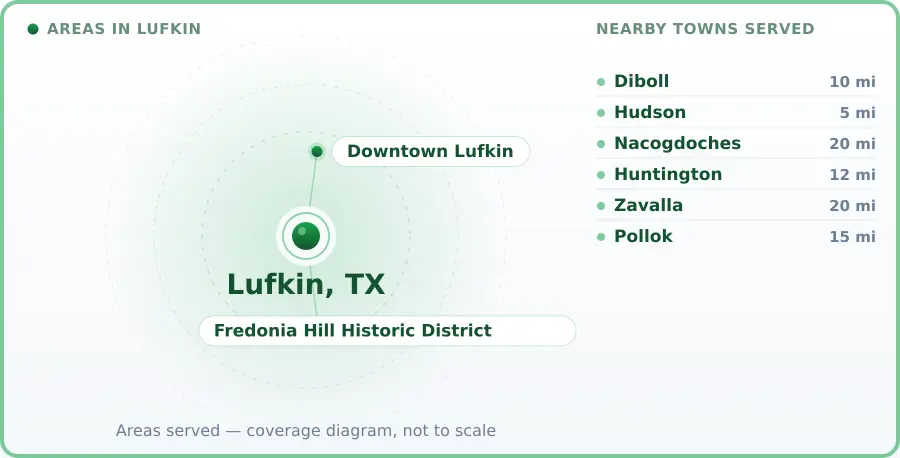
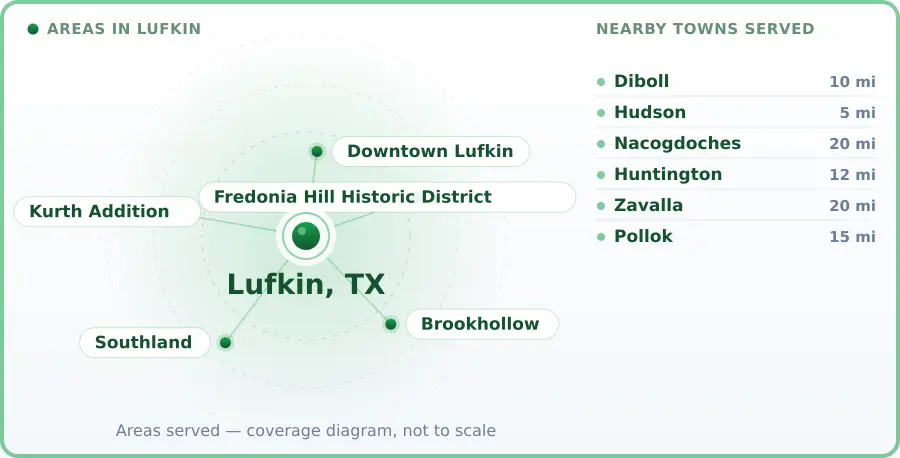
Fix thin neighbourhood lists at the source, so it holds for every city
The diagram kept showing two or three areas. Mold-site had 2 for Lufkin while water-site had 6
for the SAME city. The cause was not the drawing — it was that a short list was never re-asked:
the top-up looks for fields that are MISSING, and two names is not missing.

The user-facing fix is one number in one file:

    { "data_key": "neighborhoods", "min_items": 5 }

Behind it, four things that each stop a real failure:

- A field present but shorter than min_items now counts as missing, so a thin list gets re-asked.
- A declaration may have NO ask of its own. The base prompt already asks for neighbourhoods;
  this entry exists only to set the minimum, and asking twice in one call would be daft.
- A re-ask asks a DIFFERENT question. The base prompt says "better to return none than a fake
  one" — correct for accuracy, and it biases hard toward short lists, so re-sending it got the
  same two names back. The top-up now names what is already held and asks for more, keeping
  those. That is what actually moved Lufkin from 2 to 5.
- A re-ask that comes back shorter is discarded, and one that stays short counts as declined, so
  a city with genuinely few named areas is asked twice and then left alone.

Also fixed a bug of mine in the same edit: I widened the field tuples from 4 to 5 and missed one
unpack site, so every top-up crashed after the API call — money spent, nothing saved, and the
run looked like it had simply decided not to change anything.
[…]

Changed region(s): [[0.0933, 0.6725, 0.6222, 0.7642], [0.0311, 0.3974, 0.56, 0.4891], [0.28, 0.4891, 0.3111, 0.5197]]

diff --git a/generate.py b/generate.py
@@ -1086,7 +1086,7 @@ def chart_research_fields(brief):
         seen.add(key)
         skey = (cfg.get('source_key') or '').strip()
         sask = (r.get('source_ask') or '').strip()
-        out.append((key, skey, ask, sask))
+        out.append((key, skey, ask, sask, int(cfg.get('min_items') or 0)))
 
         # A `compare` chart needs its BENCHMARK as well as its own figure, and the benchmark
         # lives in a different field. Tracking only data_key meant a chart could have its own
@@ -1101,7 +1101,7 @@ def chart_research_fields(brief):
             vk = (b.get('value_key') or '').strip() if isinstance(b, dict) else ''
             if vk and vk not in seen:
                 seen.add(vk)
-                out.append((vk, skey, ask, sask))
+                out.append((vk, skey, ask, sask, 0))
     return out
 
 
@@ -1132,12 +1132,16 @@ def plugin_research_fields():
             if not isinstance(fld, dict):
                 continue
             key = (fld.get('data_key') or '').strip()
-            ask = (fld.get('ask') or '').strip()
-            if not key or not ask or key in seen:
+            if not key or key in seen:
                 continue
+            # An ask-less declaration is TRACKED but adds no prompt line. That is how a plugin
+            # can say "this field must have at least N entries" about something the base prompt
+            # already asks for, without asking for it twice in the same call.
+            ask = (fld.get('ask') or '').strip()
             seen.add(key)
             out.append((key, (fld.get('source_key') or '').strip(),
-                        ask, (fld.get('source_ask') or '').strip()))
+                        ask, (fld.get('source_ask') or '').strip(),
+                        int(fld.get('min_items') or 0)))
     return out
 
 
@@ -1162,7 +1166,10 @@ def _chart_research_asks(brief):
     lines = []
     sourced = False
     seen_asks = set()
-    for _key, _skey, ask, source_ask in fields:
+    for _key, _skey, ask, source_ask, _min in fields:
+        # An ask-less declaration is tracked only — it contributes no line to the prompt.
+        if not ask:
+            continue
         # Two tracked fields can share one ask (a compare chart and its benchmark), so the
         # prompt must not print it twice.
         if ask in seen_asks:
@@ -1190,11 +1197,42 @@ def _chart_research_asks(brief):
         "  Omitting it is correct and expected; a plausible estimate is not.\n"
     )
 
-def _research_city(city_name, state_name, SS, api_key, prompt_template, dry_run=False):
+def _thin_topup_note(city, thin_fields):
+    """
+    A top-up for a THIN list must ask a different question from the first pass.
+
+    The base prompt tells the model "better to return none than a fake one", which is correct
+    for accuracy and biases hard toward short lists. Re-sending that same prompt gets the same
+    short answer — mold-site asked again for Lufkin's neighbourhoods and got the same two.
+
+    So say what is already held and ask for MORE, keeping those. That is a question the model
+    can answer without being pushed into inventing anything.
+    """
+    if not thin_fields:
+        return ''
+    lines = []
+    for key, have, want in thin_fields:
+        names = []
+        for v in (have if isinstance(have, list) else []):
+            names.append(v.get('name', '') if isinstance(v, dict) else str(v))
+        names = [n for n in names if n]
+        lines.append(
+            f'- "{key}": you have already given {len(names)} '
+            + (f'({", ".join(names)}). ' if names else '. ')
+            + f'KEEP those and add more real ones, to at least {want} in total. '
+              'Only genuine, verifiable names — if you truly cannot reach that many, return what you can.'
+        )
+    return ('\n\nIMPORTANT — these fields came back short last time and need a fuller answer:\n'
+            + '\n'.join(lines) + '\n')
+
+
+def _research_city(city_name, state_name, SS, api_key, prompt_template, dry_run=False, topup_note=''):
     """Call Claude to produce research fields for one city, using the niche's prompt
     template. Returns a dict of fields or None. Fields are niche-defined, so validation
     is soft (must be a non-empty dict)."""
     prompt = substitute_vars(prompt_template, {'city': city_name, 'state': state_name, 'SS': SS})
+    if topup_note:
+        prompt += topup_note
 
     if dry_run:
         _log(f'    [dry-run] Would call {RESEARCH_MODEL} ({len(prompt)} chars)')
@@ -1239,8 +1277,13 @@ def _missing_research_fields(city_data, chart_fields):
         return []
     declined = _declined_map(city_data)
     missing = []
-    for key, _skey, _ask, _sask in chart_fields:
-        if city_data.get(key) not in (None, '', [], {}):
+    for key, _skey, _ask, _sask, min_items in chart_fields:
+        val = city_data.get(key)
+        # A field can be PRESENT and still incomplete. The prompt asks for 6-10 neighbourhoods
+        # and the model sometimes returns two; because two is not empty, the top-up never
+        # re-asked and that city kept two forever. A short list now counts as missing.
+        thin = min_items and isinstance(val, (list, dict)) and len(val) < min_items
+        if val not in (None, '', [], {}) and not thin:
             continue
         if int(declined.get(key, 0)) >= 2:
             continue
@@ -1290,7 +1333,10 @@ def run_research_step(paths, api_key, dry_run=False, city_filter=None, tag_ids=N
             _log(f'  {city_name}, {city.get("SS","?")} — topping up: ' + ', '.join(missing))
         else:
             _log(f'  {city_name}, {city.get("SS","?")} — researching...')
+        thin = [(k, city.get(k), m) for k, _s, _a, _sa, m in (chart_fields or [])
+                if m and isinstance(city.get(k), (list, dict)) and 0 < len(city.get(k)) < m]
         result = _research_city(
+            topup_note      = _thin_topup_note(city, thin),
             city_name       = city_name,
             state_name      = city.get('state', ''),
             SS              = city.get('SS', ''),
@@ -1303,17 +1349,32 @@ def run_research_step(paths, api_key, dry_run=False, city_filter=None, tag_ids=N
             # A figure is only accepted WITH its source. The chart engine refuses to draw
             # without one, so storing a bare number would just create a field that looks
             # present and can never be used.
-            for key, skey, _ask, _sask in (chart_fields or []):
+            for key, skey, _ask, _sask, _min in (chart_fields or []):
                 if result.get(key) in (None, '', [], {}):
                     continue
                 if skey and not str(result.get(skey, '')).strip():
                     _warn(f'    {key}: returned without a source — discarded')
                     result.pop(key, None)
+            # A re-ask for a THIN list can come back thinner. Keep whichever is longer, so a
+            # top-up can only improve the record — the same principle as the whitelist above,
+            # applied within a field instead of across fields.
+            for key, _skey, _ask, _sask, min_items in (chart_fields or []):
+                if not min_items:
+                    continue
+                new_v, old_v = result.get(key), city.get(key)
+                if isinstance(new_v, (list, dict)) and isinstance(old_v, (list, dict)) \
+                        and len(new_v) < len(old_v):
+                    _warn(f'    {key}: re-ask returned {len(new_v)} vs {len(old_v)} held — keeping the longer')
+                    result.pop(key, None)
+
             # Track what the model declined, so a city with no published figure is asked twice
             # and then left alone rather than re-billed on every run.
             declined = _declined_map(city)
+            mins = {k: m for k, _s, _a, _sa, m in (chart_fields or [])}
             for key in missing:
-                if result.get(key) in (None, '', [], {}):
+                v = result.get(key)
+                still_thin = mins.get(key) and isinstance(v, (list, dict)) and len(v) < mins[key]
+                if v in (None, '', [], {}) or still_thin:
                     declined[key] = int(declined.get(key, 0)) + 1
                 else:
                     declined.pop(key, None)
@@ -1331,7 +1392,7 @@ def run_research_step(paths, api_key, dry_run=False, city_filter=None, tag_ids=N
             # A first-time research pass still takes everything; only a top-up is restricted.
             if city.get('_researched'):
                 allowed = set(missing) | {'_research_declined'}
-                for key, skey, _a, _s in (chart_fields or []):
+                for key, skey, _a, _s, _m in (chart_fields or []):
                     if key in missing and skey:
                         allowed.add(skey)          # a figure's source comes with it
                 keep = {k: v for k, v in result.items() if k in allowed}
